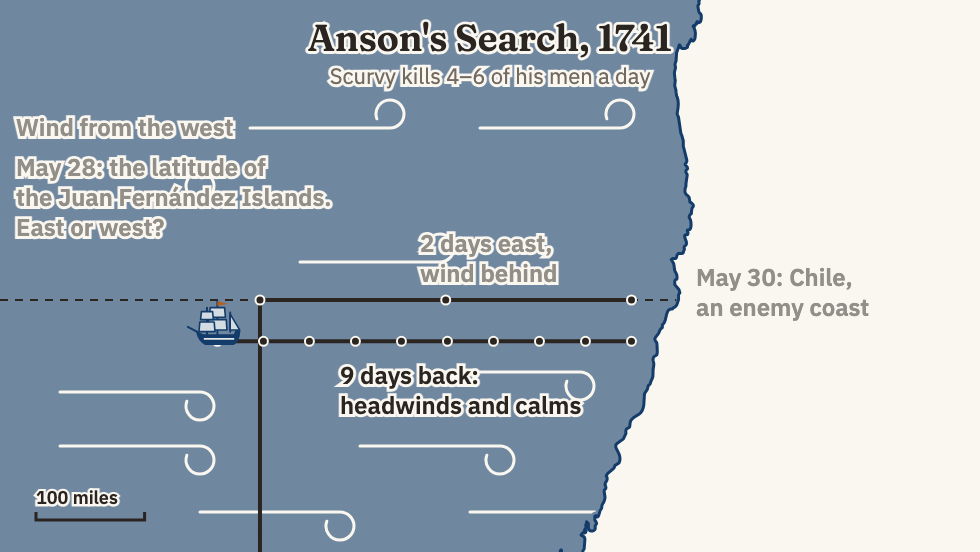
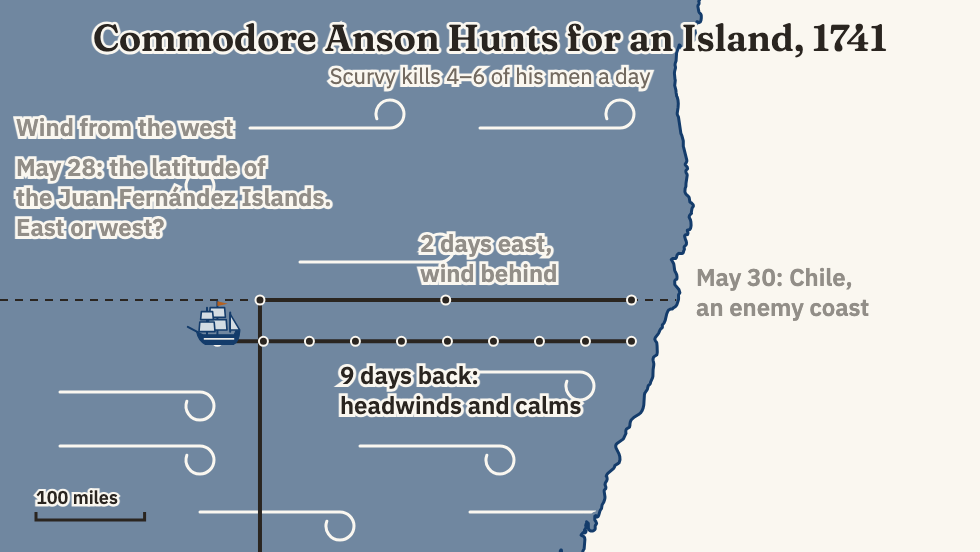
Part 2 task: title the Anson slide with who searches, and for what
"Anson's Search, 1741" left both open; the slide is now "Commodore Anson
Hunts for an Island, 1741". The plan ranks five candidate titles, and the
task records the later round-2 requests verbatim. Round 2's pictures are
reshot with the new title.

Changed region(s): [[0.0918, 0.0308, 0.9184, 0.1232]]

diff --git a/watches/tasks/2026-10-30-part-2-visual-language/mockup/story.ts b/watches/tasks/2026-10-30-part-2-visual-language/mockup/story.ts
@@ -99,7 +99,8 @@ export interface Style {
   readonly steps: readonly Step[];
 }
 
-const TITLE = "Anson's Search, 1741";
+/** Who searches, and for what: "Anson's Search" alone left both open. */
+const TITLE = "Commodore Anson Hunts for an Island, 1741";
 
 /** The middle of the west leg, which runs due west to the sighting. */
 const westMiddle = ({ turn, found }: Places): Point => [

diff --git a/watches/tasks/2026-10-30-part-2-visual-language/PLAN.md b/watches/tasks/2026-10-30-part-2-visual-language/PLAN.md
@@ -380,7 +380,7 @@ the labels say. Each is a proposal, to sketch before it is built.
    Labels: "Sail to the latitude, then turn" and "Extra days at sea: storms,
    scurvy". The section's point, "longitude is hard to measure", is the
    title, so the Anson slide need not say it.
-2. **Anson's Search, 1741.** As mocked in round 2 (section 12): the ship
+2. **Commodore Anson Hunts for an Island, 1741.** As mocked in round 2 (section 12): the ship
    sails in from the south, and the islands show only when Anson finds them.
    A detail for the speaker, from Walter: on the morning of May
    28, Anson thought that he saw the island, and his officers said that it
@@ -592,6 +592,24 @@ click the ship sails on past the island's west end, and is drawn north-west
 of it, with sea between. It anchored on the island's north side; a ship drawn
 there would hide the island. This is a drawing choice, and the track is
 approximate.
+
+**The title** says who searches, and for what: "Anson's Search, 1741" left
+both open. The candidates, ranked, with their widths at 37 px on the
+980 px slide:
+
+1. "Commodore Anson Hunts for an Island, 1741" (794 px, chosen). "Commodore"
+   says that he commands navy ships, and "an island" what he looks for. It
+   keeps the name that the speaker says, so the subtitle's "his men" are
+   Anson's.
+2. "Commodore Anson's Search for an Island, 1741" (831 px): the same
+   answers, longer and flatter.
+3. "A Dying Crew Hunts for an Island, 1741" (693 px): the most vivid and
+   the shortest, but it drops the name, and the subtitle's "his" then refers
+   to no one.
+4. "Anson's Search for Juan Fernández, 1741" (718 px): still no "who", and
+   the audience does not know the islands' name; the first label gives it.
+5. "Where Is the Island? Commodore Anson, 1741" (815 px): a question, but
+   the first label asks "East or west?", and two questions compete.
 
 **Labels moved**: "Wind from the west" beside the top gust; "9 days back:
 headwinds and calms" below the west leg, off its dots; "Juan Fernández

diff --git a/watches/tasks/2026-10-30-part-2-visual-language/instructions.md b/watches/tasks/2026-10-30-part-2-visual-language/instructions.md
@@ -69,3 +69,24 @@ The user's feedback on round 1's labels mockup, verbatim:
 > carefully says "Disasters like this", so doesn't claim that the wreck led
 > to the Longitude Act. With unfilled sea, it's hard to tell what's land and
 > what's ocean, so stick with filled.
+
+Later requests in round 2, verbatim, in order:
+
+> Please add a dropdown at the bottom of the page for wind placement.
+
+> The westward travel is not straight west, it should be. I get that it
+> can't be at the same vertical position or it would draw over the eastern
+> travel. But it should still be horizontal.
+
+> Also, please insert a click after trhe slide is initially drawn with the
+> ship at the bottom, before it starts heading north.
+
+> Turn the drop down south into a teleport, without a line left behind.
+> Here it looks like they're intentionally travelling south, rather than it
+> being an artifact of visibility.
+
+> In lesseg, after "Scurvy: 4-6 dead a day", the ship should start at the
+> bottom and move up after the fade in.
+
+> The title of the slide needs something more. "Anson's search, 1741" begs
+> the question "who or what is Anson, what are they searching for?"
